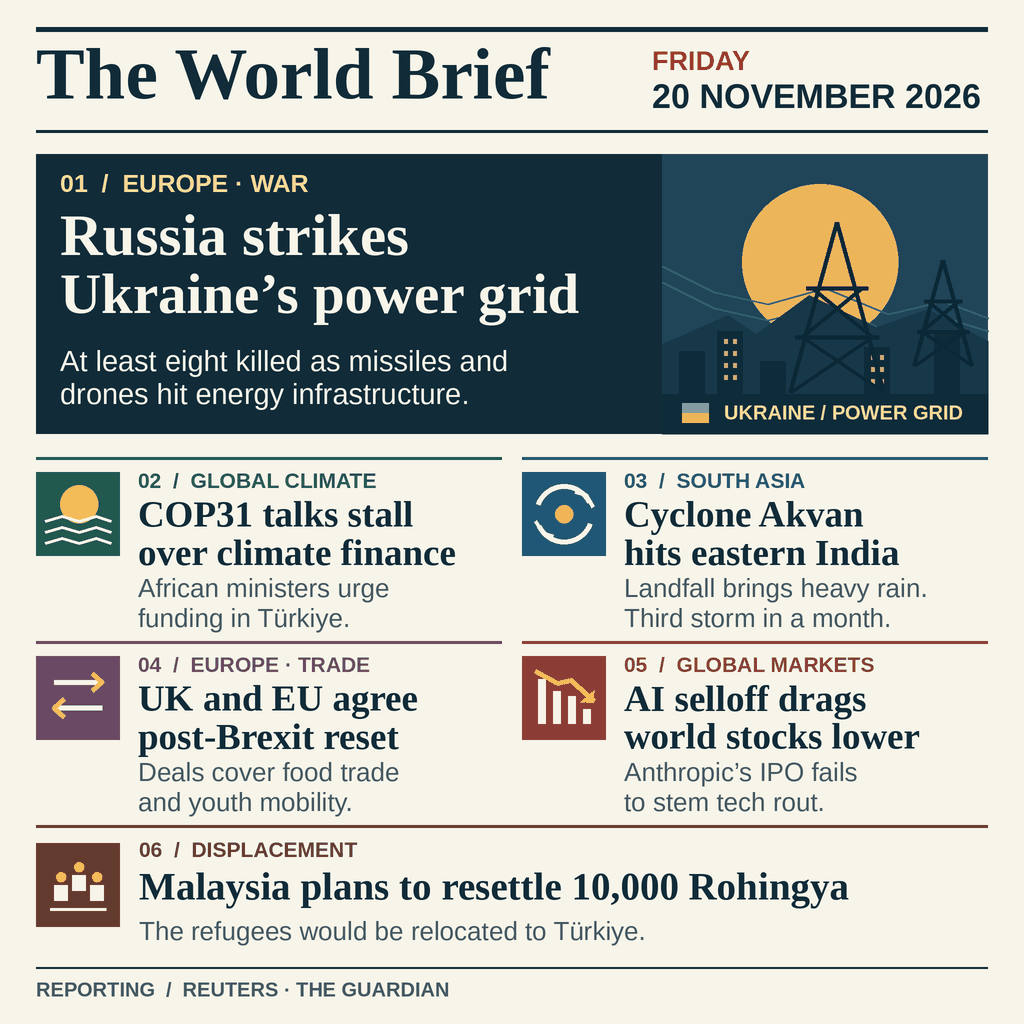
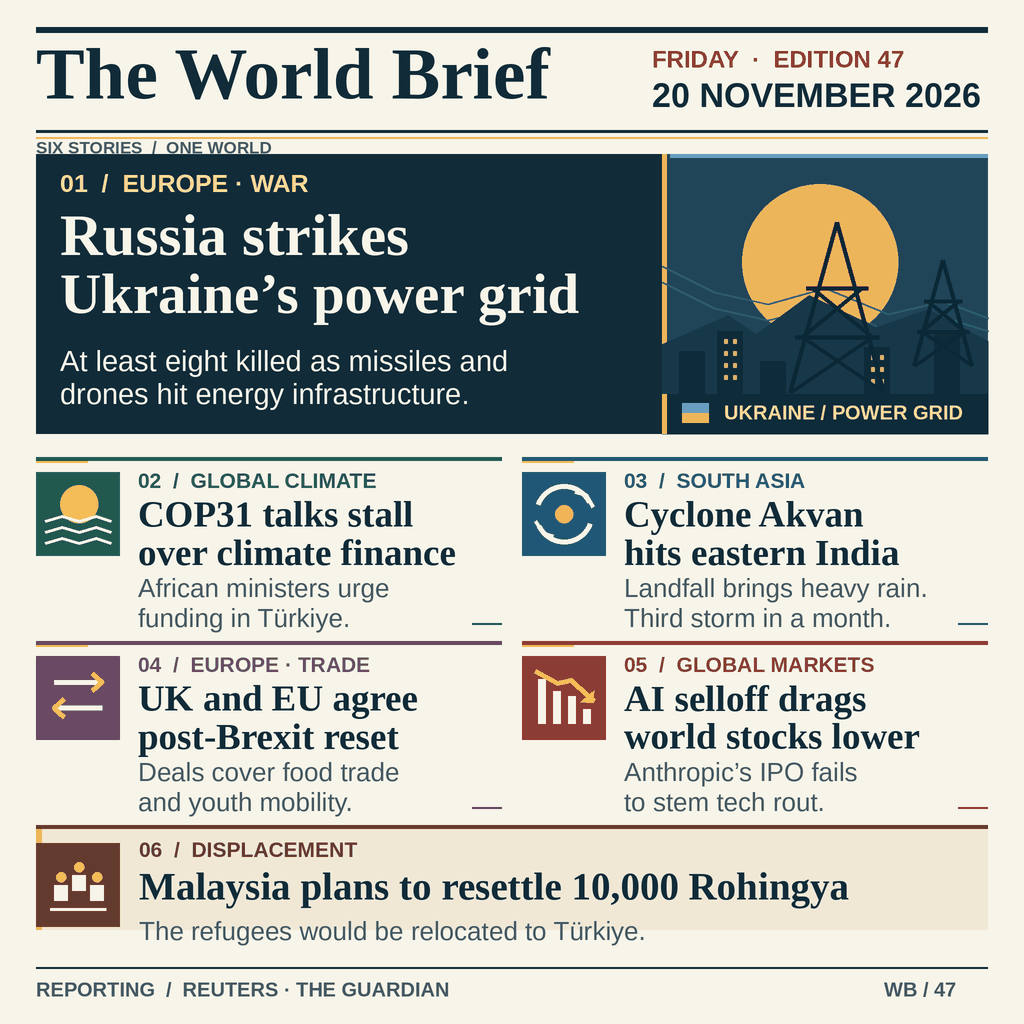
Refine editorial poster layout

diff --git a/render.py b/render.py
@@ -49,6 +49,9 @@ def ellipse(x, y, w, h, color):
 
 def lead_art():
     box(662, 154, 326, 280, '#204559')
+    # A narrow dateline rail gives the lead illustration a clear editorial frame.
+    box(662, 154, 5, 240, '#ecb559')
+    box(670, 154, 318, 4, '#5c9ed0')
     ellipse(742, 184, 156, 156, '#ecb559')
     for points in [[(662, 266), (714, 292), (768, 304), (825, 288), (888, 314), (943, 301), (988, 318)],
                    [(662, 282), (714, 308), (768, 320), (825, 306), (888, 331), (943, 317), (988, 331)]]:
@@ -69,6 +72,7 @@ def lead_art():
                      ((-46, 170), (35, 115)), ((46, 170), (-35, 115))]:
             line([point(*a), point(*b)], '#0b2835', 4)
     box(662, 394, 326, 40, '#0e2b3a')
+    box(662, 394, 5, 40, '#ecb559')
     box(682, 403, 27, 10, '#5c9ed0')
     box(682, 413, 27, 10, '#ecb559')
     text(724, 405, 'UKRAINE / POWER GRID', 20, '#fcdb93', end=982)
@@ -110,21 +114,25 @@ def icon(kind, x, y, bg, mark):
 
 def card(x, y, kind, tag, headline, detail, bg, accent):
     edge = x + 466
-    box(x, y, 466, 3, bg)
+    box(x, y, 466, 4, bg)
+    box(x, y + 4, 52, 2, accent)
     icon(kind, x, y + 15, bg, accent)
     text(x + 102, y + 16, tag, 21, bg, end=edge)
     for i, words in enumerate(headline):
         text(x + 102, y + 44 + 38 * i, words, 37, serif=True, end=edge)
     for i, words in enumerate(detail):
         text(x + 102, y + 121 + 30 * i, words, 26, MUTED, bold=False, end=edge)
+    box(edge - 30, y + 166, 30, 2, bg)
 
 
 def compose():
-    box(36, 27, 952, 5, INK)
+    box(36, 27, 952, 6, INK)
     text(36, 47, 'The World Brief', 73, serif=True)
-    text(652, 51, 'FRIDAY', 27, '#9d382a')
-    text(652, 84, '20 NOVEMBER 2026', 34, end=989)
+    text(652, 51, 'FRIDAY  ·  EDITION 47', 24, '#9d382a')
+    text(652, 83, '20 NOVEMBER 2026', 34, end=989)
     box(36, 130, 952, 3, INK)
+    box(36, 137, 952, 2, '#ecb559')
+    text(36, 141, 'SIX STORIES  /  ONE WORLD', 17, MUTED, end=300)
     box(36, 154, 626, 280, INK)
     text(60, 174, '01  /  EUROPE · WAR', 25, '#fcdb93')
     text(60, 214, 'Russia strikes', 59, PAPER, serif=True)
@@ -140,13 +148,16 @@ def compose():
          ('Deals cover food trade', 'and youth mobility.'), '#694963', '#f3bd58')
     card(522, 641, 'markets', '05  /  GLOBAL MARKETS', ('AI selloff drags', 'world stocks lower'),
          ('Anthropic’s IPO fails', 'to stem tech rout.'), '#8b3c35', '#f5bc52')
-    box(36, 825, 952, 3, '#633a2e')
+    box(36, 825, 952, 105, '#f0e8d5')
+    box(36, 825, 952, 4, '#633a2e')
+    box(36, 829, 6, 101, '#ecb559')
     icon('people', 36, 843, '#633a2e', '#f3bd58')
     text(139, 842, '06  /  DISPLACEMENT', 21, '#633a2e')
     text(139, 872, 'Malaysia plans to resettle 10,000 Rohingya', 39, serif=True)
     text(139, 921, 'The refugees would be relocated to Türkiye.', 26, MUTED, bold=False)
     box(36, 967, 952, 2, INK)
     text(36, 982, 'REPORTING  /  REUTERS · THE GUARDIAN', 20, MUTED)
+    text(884, 982, 'WB / 47', 20, MUTED, end=988)
 
 
 if __name__ == '__main__':
